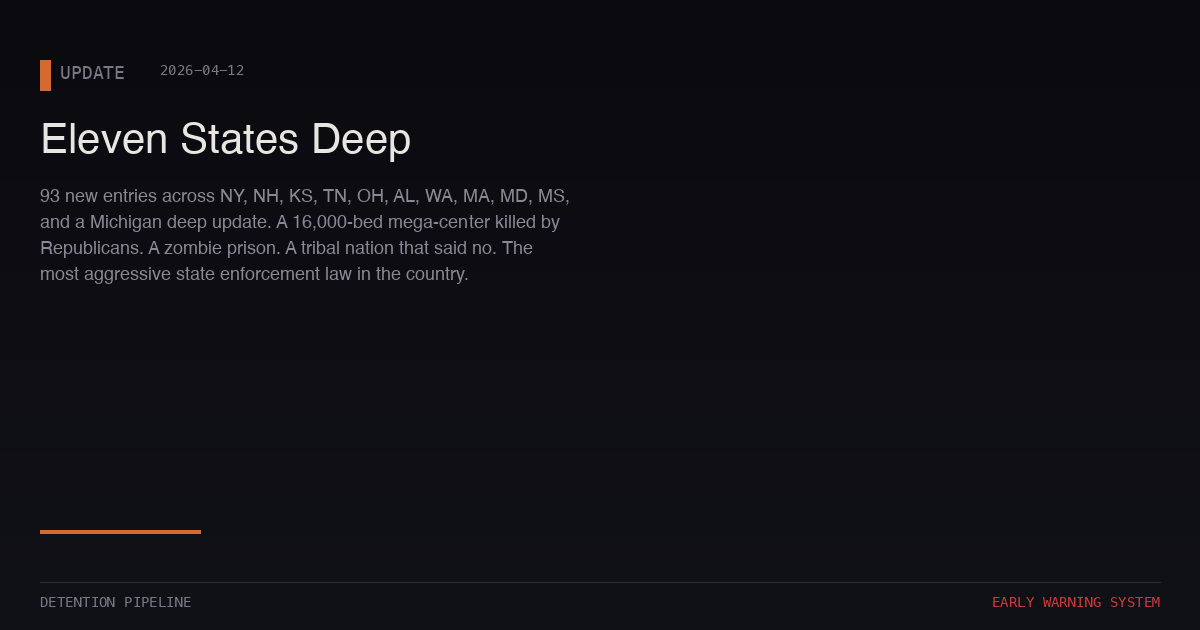
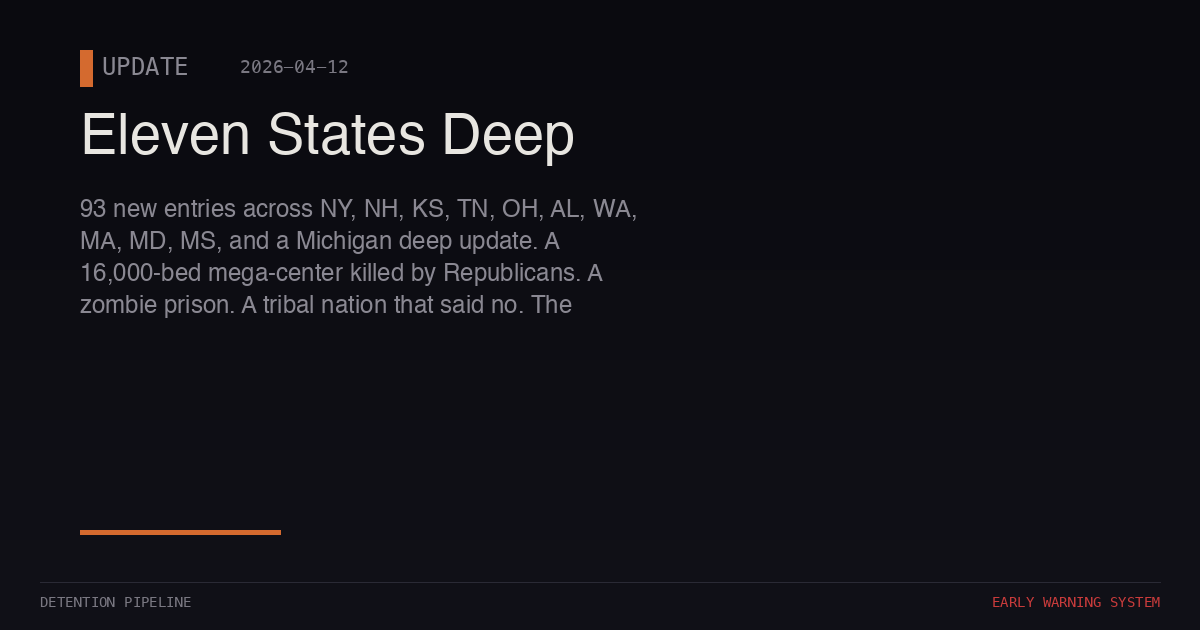
Fix blog OG cards: bigger text, more left margin for social cropping
Title bumped from 42px to 56px, summary from 18px to 24px, left margin
from 40px to 80px. Cards were too small to read at Facebook display size.

diff --git a/hugo/generate_og_cards.py b/hugo/generate_og_cards.py
@@ -71,7 +71,7 @@ def load_fonts():
     for name, size in [("mono_sm", 14), ("mono", 18), ("mono_lg", 24),
                        ("mono_xl", 36), ("mono_xxl", 56),
                        ("sans_sm", 14), ("sans", 18), ("sans_lg", 24),
-                       ("sans_xl", 32), ("title", 42)]:
+                       ("sans_xl", 32), ("title", 42), ("title_xl", 56)]:
         family = "Menlo" if "mono" in name else "Helvetica"
         try:
             fonts[name] = ImageFont.truetype(family, size)
@@ -361,36 +361,38 @@ def generate_blog_card(fonts, title, summary, date, output_path):
     draw = ImageDraw.Draw(img)
     draw_gradient_bg(draw)
 
-    # Type label
-    draw.rectangle([40, 60, 40 + 10, 60 + 30], fill=ACCENT_WARM)
-    draw.text((60, 62), "UPDATE", fill=TEXT_DIM, font=fonts["mono"])
-    if date:
-        draw.text((160, 62), date.upper(), fill=TEXT_DIM, font=fonts["mono_sm"])
+    LM = 80  # left margin — generous for social media cropping
 
-    # Title (wrapped)
+    # Type label
+    draw.rectangle([LM, 50, LM + 12, 50 + 36], fill=ACCENT_WARM)
+    draw.text((LM + 22, 52), "UPDATE", fill=TEXT_MID, font=fonts["mono_lg"])
+    if date:
+        draw.text((LM + 160, 56), date.upper(), fill=TEXT_DIM, font=fonts["mono"])
+
+    # Title (wrapped, large)
     title_clean = title or "Pipeline Update"
     words = title_clean.split()
     lines = []
     current = ""
     for w in words:
-        if len(current + " " + w) < 35:
+        if len(current + " " + w) < 28:
             current = (current + " " + w).strip()
         else:
             lines.append(current)
             current = w
     if current:
         lines.append(current)
-    for i, line in enumerate(lines[:3]):
-        draw.text((40, 120 + i * 48), line, fill=TEXT_LIGHT, font=fonts["title"])
+    for i, line in enumerate(lines[:2]):
+        draw.text((LM, 110 + i * 64), line, fill=TEXT_LIGHT, font=fonts["title_xl"])
 
-    # Summary (wrapped)
-    summary_y = 120 + min(len(lines), 3) * 48 + 20
+    # Summary (wrapped, readable)
+    summary_y = 110 + min(len(lines), 2) * 64 + 24
     if summary:
         words = summary.split()
         lines = []
         current = ""
         for w in words:
-            if len(current + " " + w) < 65:
+            if len(current + " " + w) < 50:
                 current = (current + " " + w).strip()
             else:
                 lines.append(current)
@@ -398,9 +400,9 @@ def generate_blog_card(fonts, title, summary, date, output_path):
         if current:
             lines.append(current)
         for i, line in enumerate(lines[:4]):
-            draw.text((40, summary_y + i * 26), line, fill=TEXT_MID, font=fonts["sans"])
+            draw.text((LM, summary_y + i * 32), line, fill=TEXT_MID, font=fonts["sans_lg"])
 
-    draw.rectangle([40, H - 100, 200, H - 97], fill=ACCENT_WARM)
+    draw.rectangle([LM, H - 100, LM + 200, H - 96], fill=ACCENT_WARM)
     draw_brand(draw, fonts)
     img.save(output_path, "PNG", optimize=True)
 
